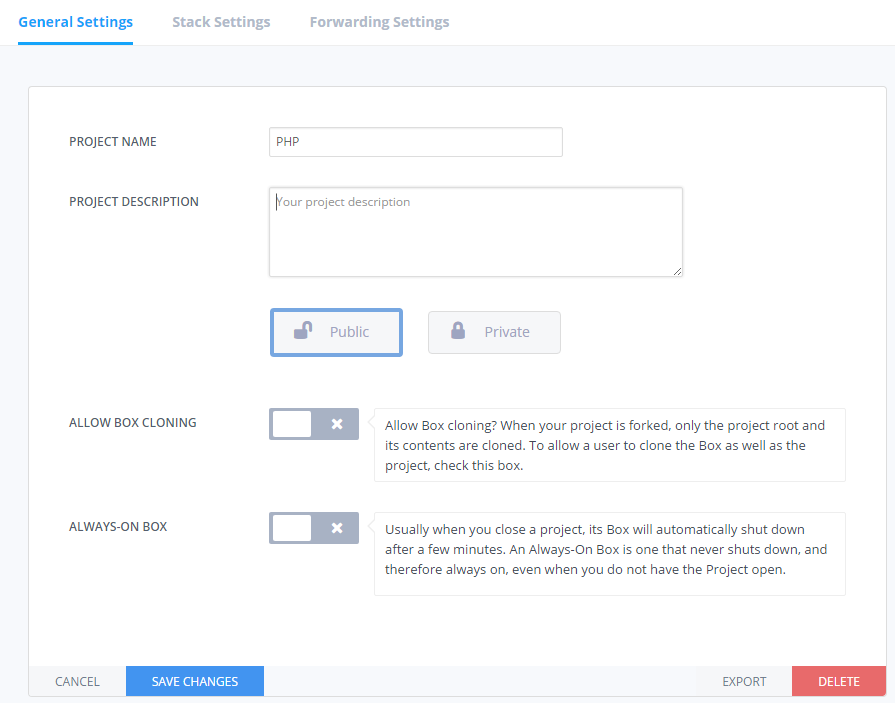
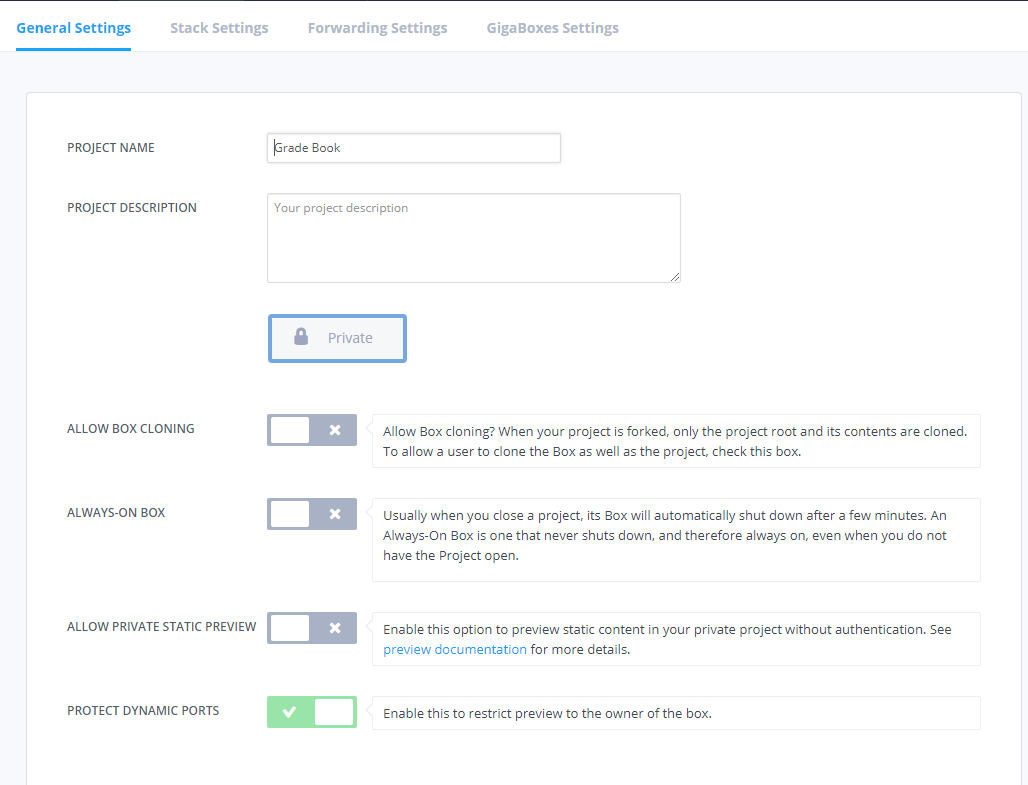
changelog #9296

diff --git a/source/docs/misc/changelog.html.md b/source/docs/misc/changelog.html.md
@@ -13,6 +13,7 @@ We do not report small bug fixes or issues that affect individual users, who we 
 
 **May 2018**
 
+- `[F] [14th]`: Restrict preview of box url to owners of the box. See [Project Settings](/docs/ide/customization/project-settings/) for more information
 - `[I] [16th]`: Improve handling of file and directory names in [desktop application](/docs/dashboard/desktopapp)
 - `[F] [ 8th]`: Add support for Python and Javascript in [advanced code tests](/docs/content/authoring/assessments/assessments-code-tests/)
 - `[F] [ 4th]`: Improve handling of tab focus when returning to a unit
